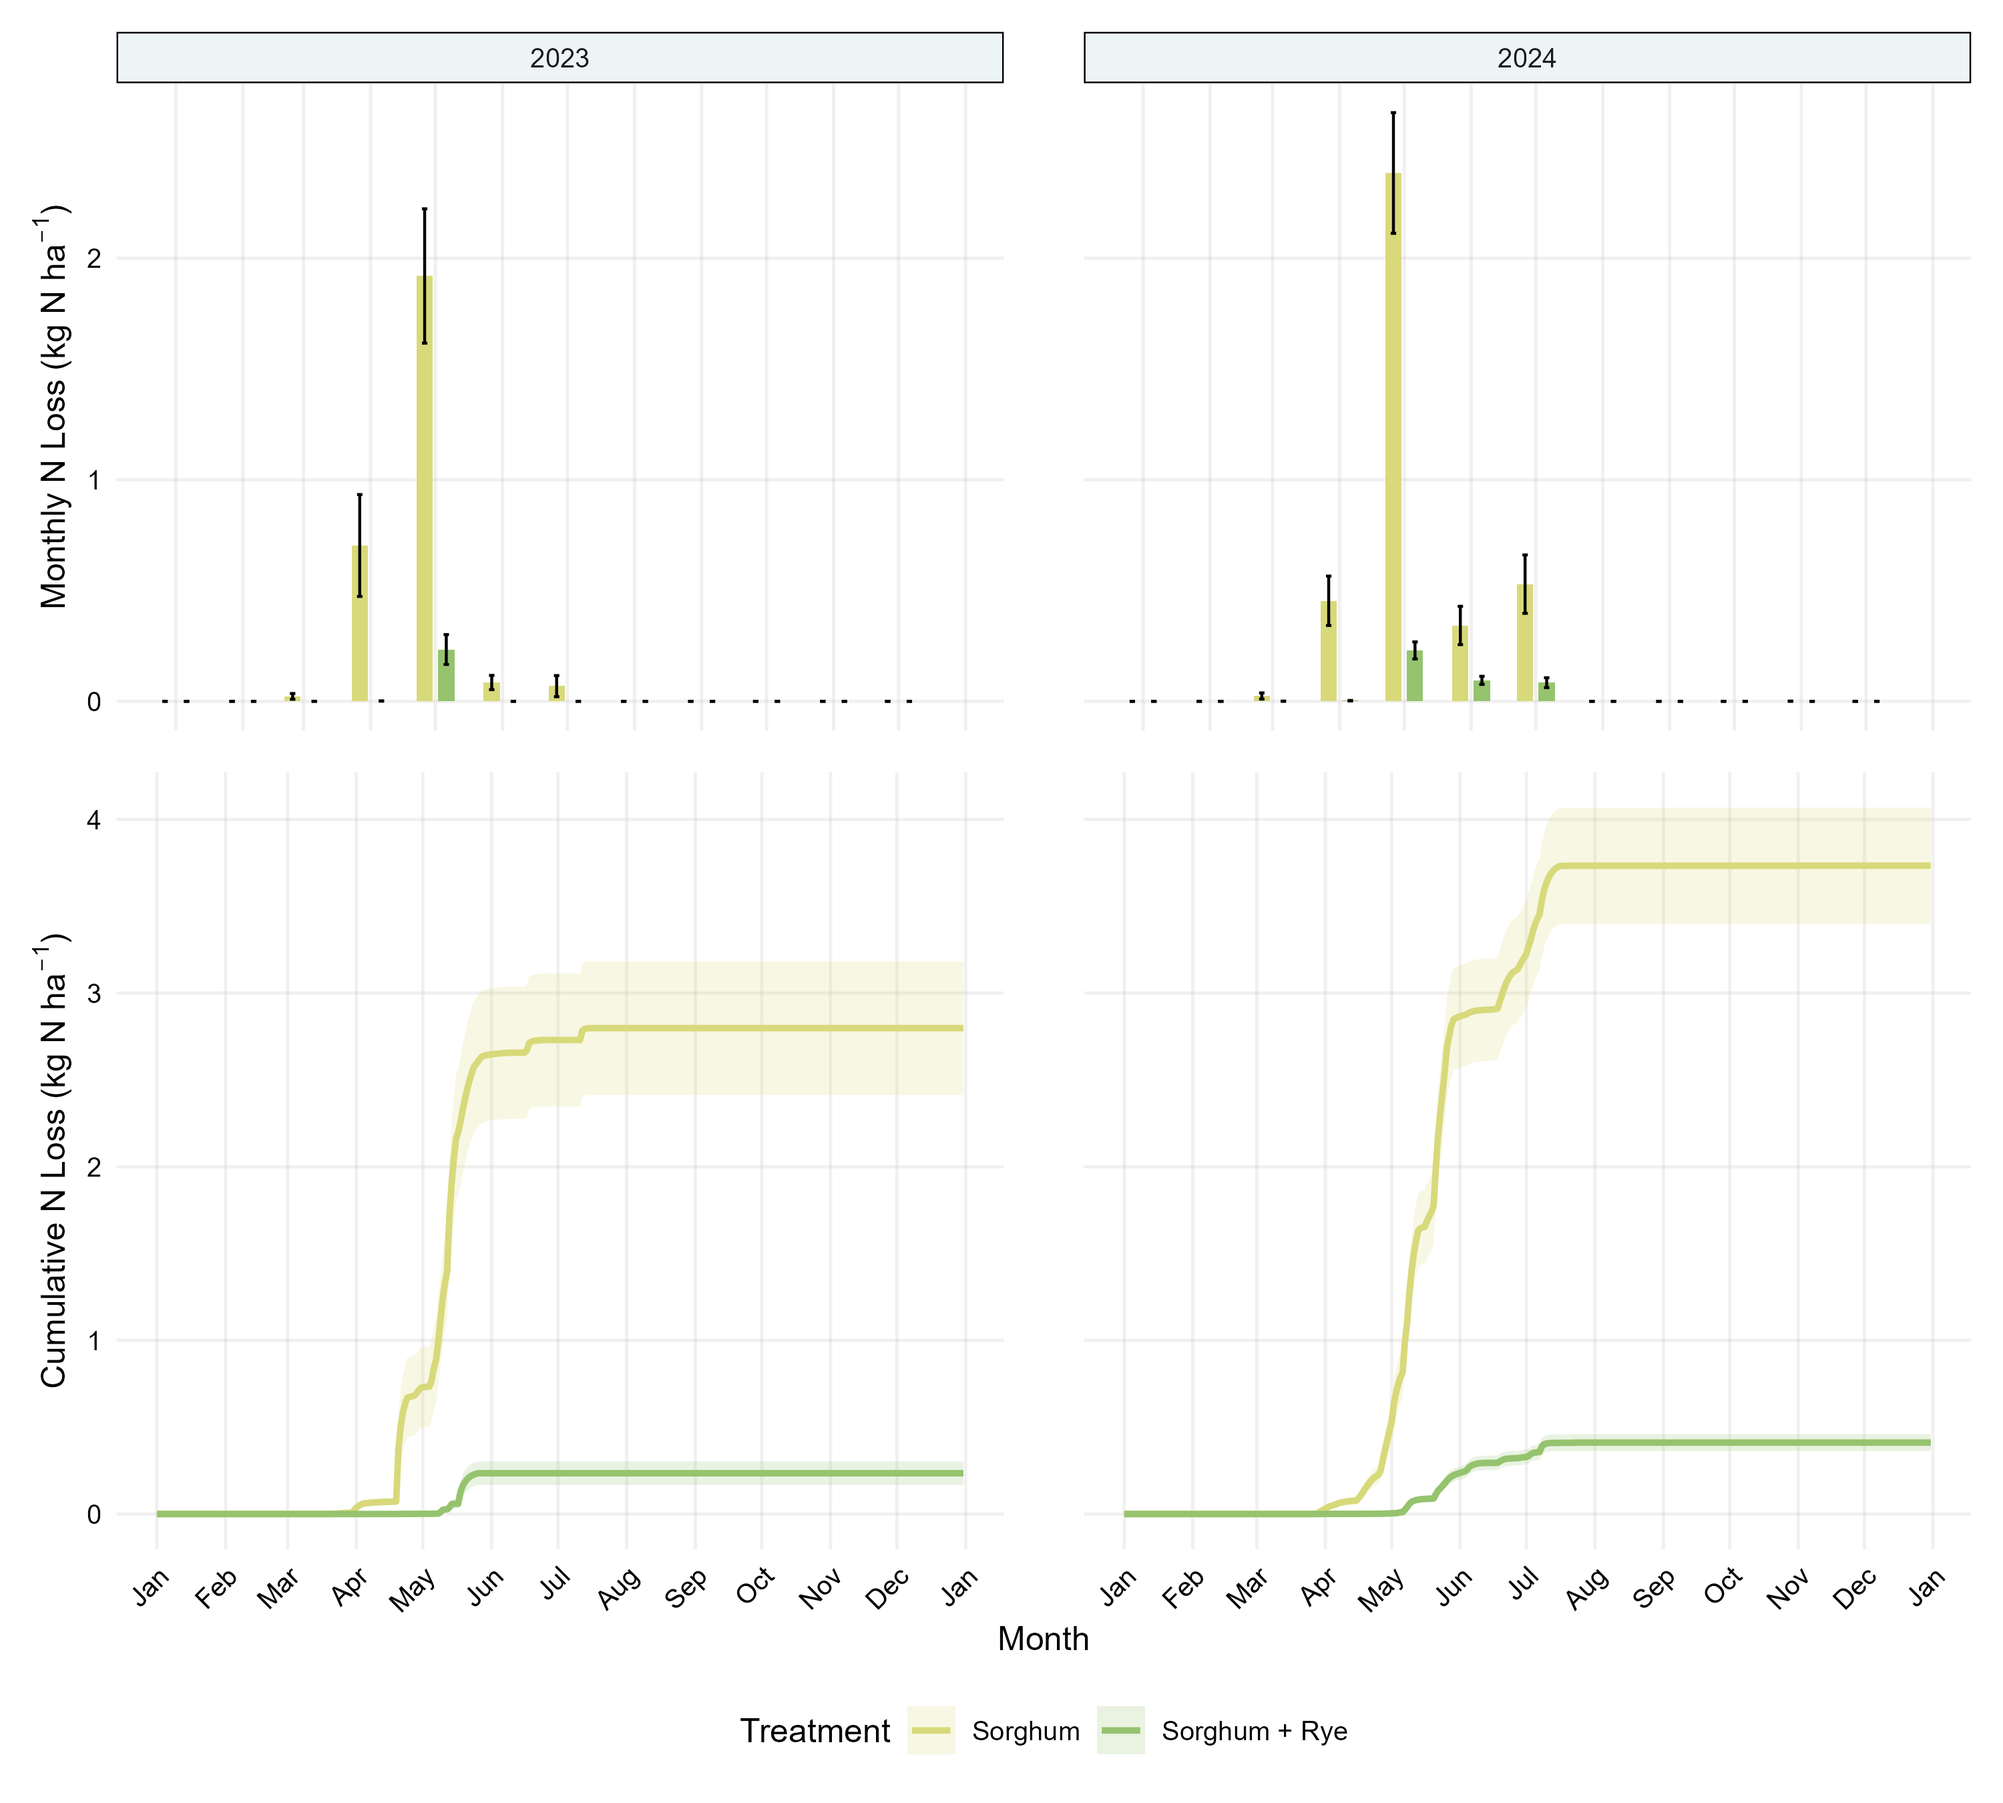
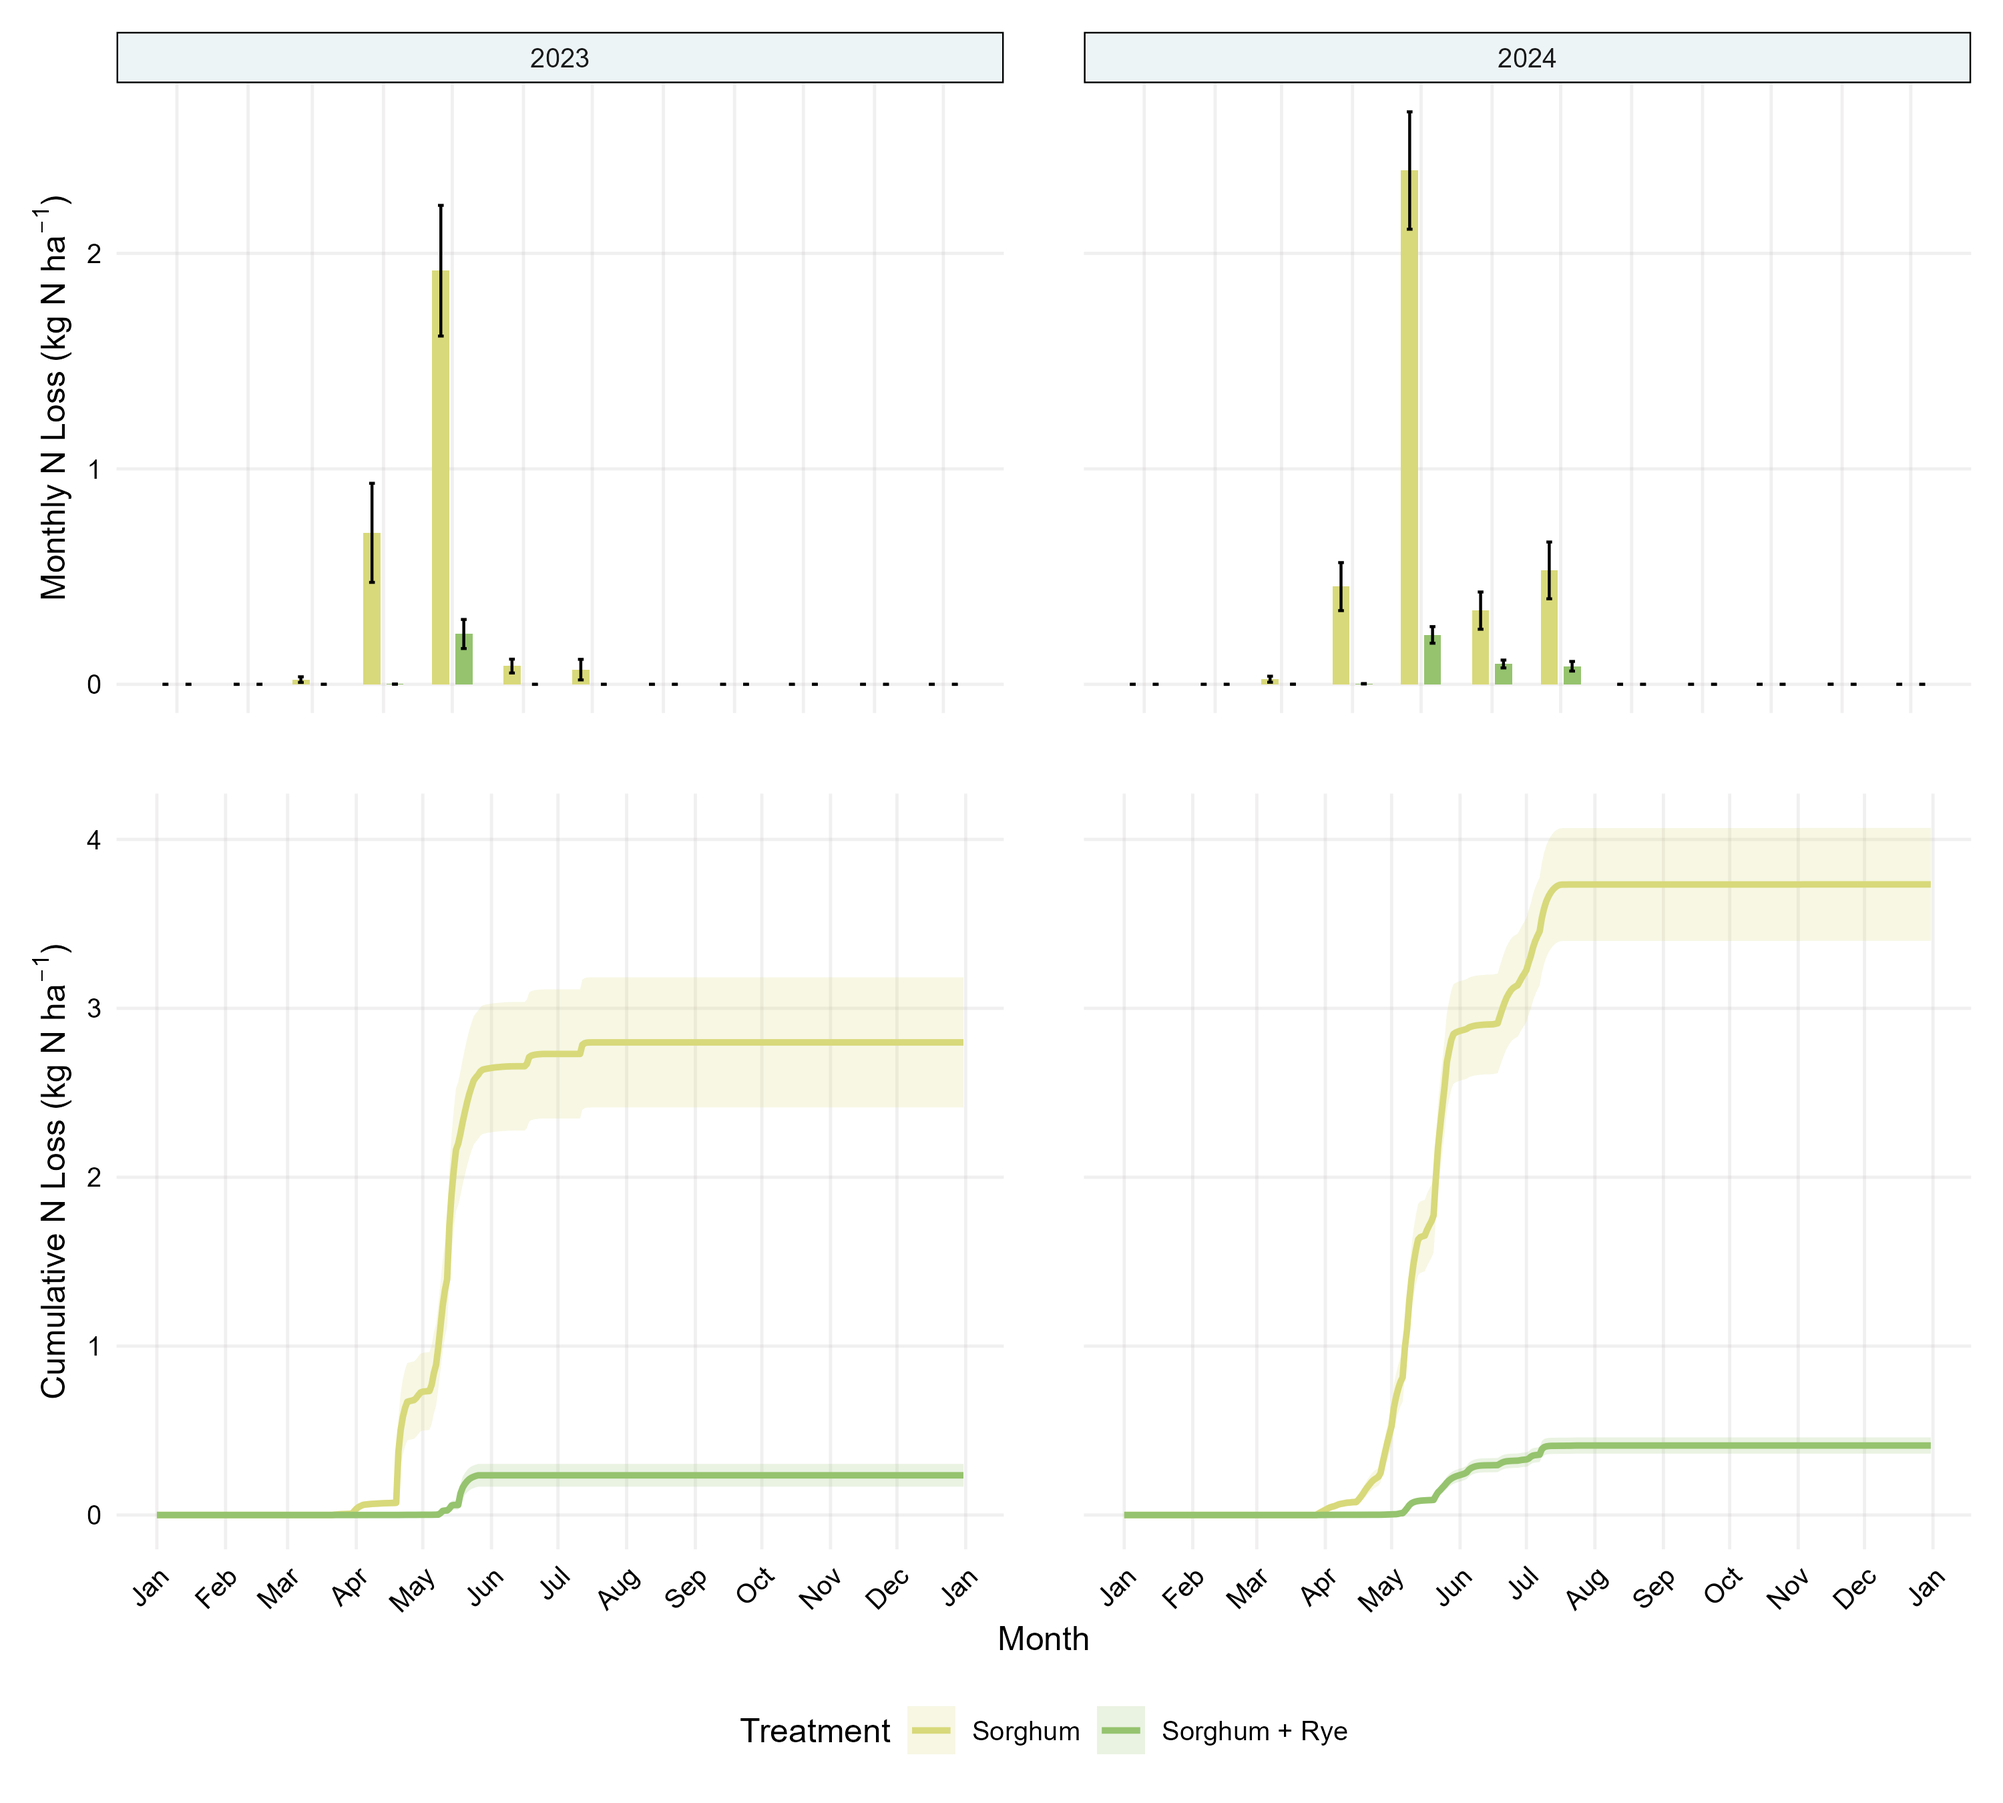
feat: update leaching analysis to recalculate total N loss and improve data handling

diff --git a/TODO.md b/TODO.md
@@ -1,0 +1,84 @@
+# Project TODO List
+
+## Immediate Tasks
+
+### 1. Re-run Data Processing
+- [ ] Run `scripts/clean_leaching.r` to regenerate `data/clean_leaching.csv` with corrected `total_n_loss_mg` calculations
+- [ ] Verify that NA values are properly handled in the new dataset
+
+### 2. Figure 1 Improvements
+- [ ] Fix x-axis alignment issues to match Figures 2 and 3
+- [ ] Apply consistent formatting (faceting structure, theme elements)
+- [ ] Ensure all panels use the same date breaks and alignment
+- [ ] Consider combining precipitation/GDD into faceted structure like other figures
+
+### 3. Figure Reorganization
+**Current structure needs restructuring:**
+
+#### Option A: Separate Flow and N-Loss Figures
+- [ ] **Figure 3**: Flow + Precipitation (like Figure 2 structure)
+  - Top panel: Daily precipitation (faceted by year)
+  - Bottom panel: Cumulative tile drain flow (faceted by year)
+  
+- [ ] **Figure 4**: Monthly + Cumulative N-Loss 
+  - Top panel: Monthly N loss (faceted by year, trimmed to concentration sampling period)
+  - Bottom panel: Cumulative N loss (faceted by year, trimmed to concentration sampling period)
+  
+- [ ] **Figure 5**: Annual stacked N losses (current Figure 4)
+
+#### Option B: Add Third Panel to Figure 3
+- [ ] **Figure 3**: Three-panel leaching figure
+  - Top: Cumulative flow (full year)
+  - Middle: Monthly N loss (trimmed to sampling period) 
+  - Bottom: Cumulative N loss (trimmed to sampling period)
+
+### 4. Statistical Analysis Verification
+- [ ] **Table significance testing**: Verify pairwise t-test calculations for soil nitrogen tables
+- [ ] **Daily flux significance**: Add statistical testing and significance stars to Figure 2 daily flux panels
+- [ ] **Monthly N-loss significance**: Add statistical testing and significance stars to monthly N-loss panels
+- [ ] Review ANOVA source of variation calculations for all tables
+
+## Code Quality Improvements
+
+### 5. Date Range Consistency
+- [ ] Create helper function for consistent date range calculations across figures
+- [ ] Ensure all figures use the same approach as Figure 2 for date trimming
+- [ ] Document the difference between measurement periods vs. full calendar year
+
+### 6. Theme and Styling Consistency  
+- [ ] Verify `theme_publication()` is applied consistently across all figures
+- [ ] Standardize legend positioning and formatting
+- [ ] Ensure consistent color schemes across figures
+- [ ] Check axis label formatting and mathematical expressions
+
+## Enhancement Ideas
+
+### 7. Figure Quality Enhancements
+- [ ] **Error bars**: Ensure consistent SE representation across all plots
+- [ ] **Axis scaling**: Consider log-scale for variables with large ranges
+- [ ] **Seasonal indicators**: Add crop planting/harvest dates to relevant figures
+- [ ] **Weather context**: Consider adding temperature data to precipitation panels
+
+### 8. Table Improvements  
+- [ ] **Effect sizes**: Add effect size calculations alongside p-values
+- [ ] **Confidence intervals**: Consider reporting 95% CI instead of/alongside SE
+- [ ] **Multiple comparisons**: Review p-value adjustment methods
+- [ ] **Table formatting**: Ensure consistent significant digit reporting
+
+### 9. Data Visualization Best Practices
+- [ ] **Color accessibility**: Verify color schemes work for colorblind readers
+- [ ] **Panel labels**: Add clear panel labels (A, B, C, etc.) for multi-panel figures
+- [ ] **Caption improvements**: Enhance figure captions with more detail about methods
+- [ ] **Trend lines**: Consider adding trend lines or smooth fits where appropriate
+
+### 10. Reproducibility and Documentation
+- [ ] **Code comments**: Add more detailed comments explaining statistical choices
+- [ ] **Method documentation**: Document interpolation methods and assumptions
+- [ ] **Quality checks**: Add data validation steps to processing scripts
+- [ ] **Version control**: Ensure all changes are properly tracked
+
+## Notes
+- Priority should be on getting basic figure structure correct before moving to enhancements
+- Consider creating a separate script for figure themes and helper functions to reduce code duplication
+- The flow data provides important context for understanding N-loss patterns - don't lose this in the reorganization
+- Statistical significance testing should be consistent across all analyses (same α level, adjustment methods, etc.)
